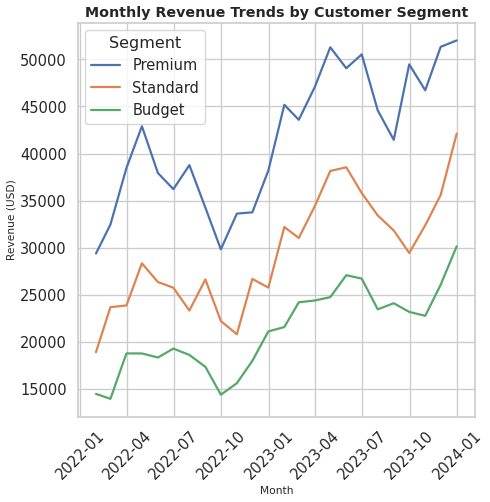
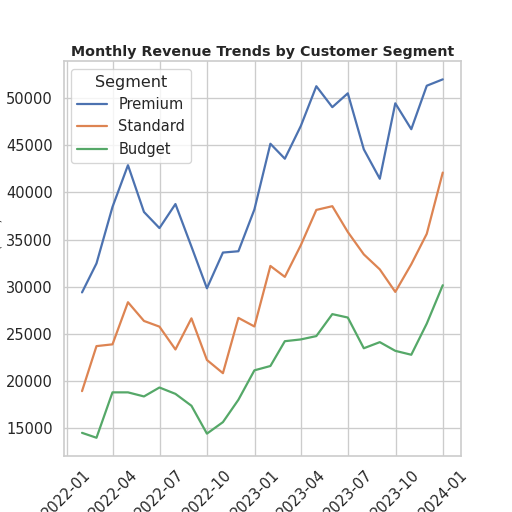
third commit

Changed region(s): [[0.0, 0.0, 0.9796, 1.0]]

diff --git a/chart.py b/chart.py
@@ -8,6 +8,9 @@
 # chart.py
 # Author: 23f2005559@ds.study.iitm.ac.in
 
+# chart.py
+# Author: 23f2005559@ds.study.iitm.ac.in
+
 import seaborn as sns
 import matplotlib.pyplot as plt
 import pandas as pd
@@ -35,7 +38,7 @@ for segment in segments:
 df = pd.DataFrame(data, columns=["Month", "Segment", "Revenue"])
 
 # Plot lineplot
-plt.figure(figsize=(8, 8))  # ensures 512x512 pixels with dpi=64
+plt.figure(figsize=(8, 8))  # (8 inches * 64 dpi = 512 pixels)
 sns.lineplot(data=df, x="Month", y="Revenue", hue="Segment", palette="deep", linewidth=2.5)
 
 # Titles and labels
@@ -47,5 +50,5 @@ plt.ylabel("Revenue (USD)", fontsize=12)
 plt.xticks(rotation=45)
 
 # Save chart with exact dimensions
-plt.savefig("chart.png", dpi=64, bbox_inches="tight")
+plt.savefig("chart.png", dpi=64)  # no bbox_inches
 plt.close()
